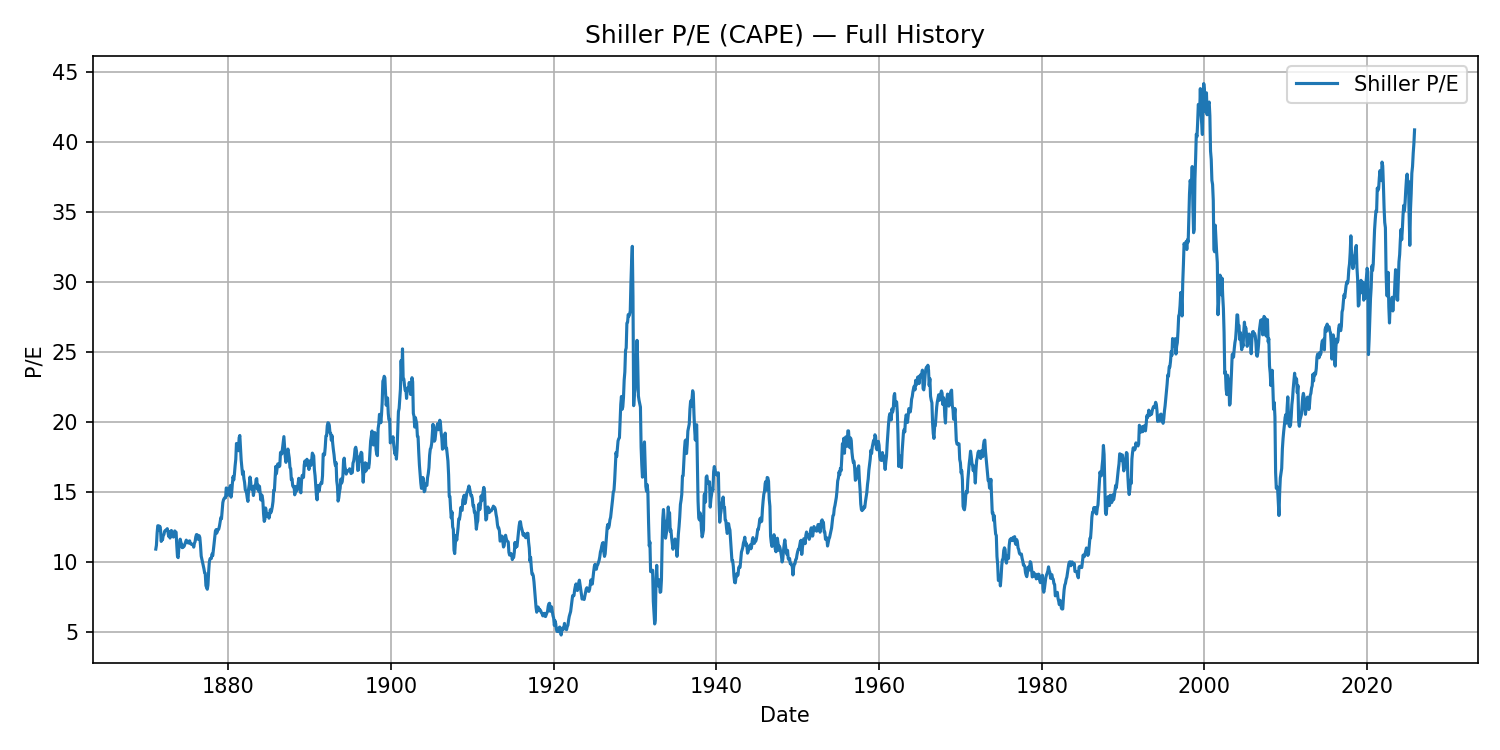
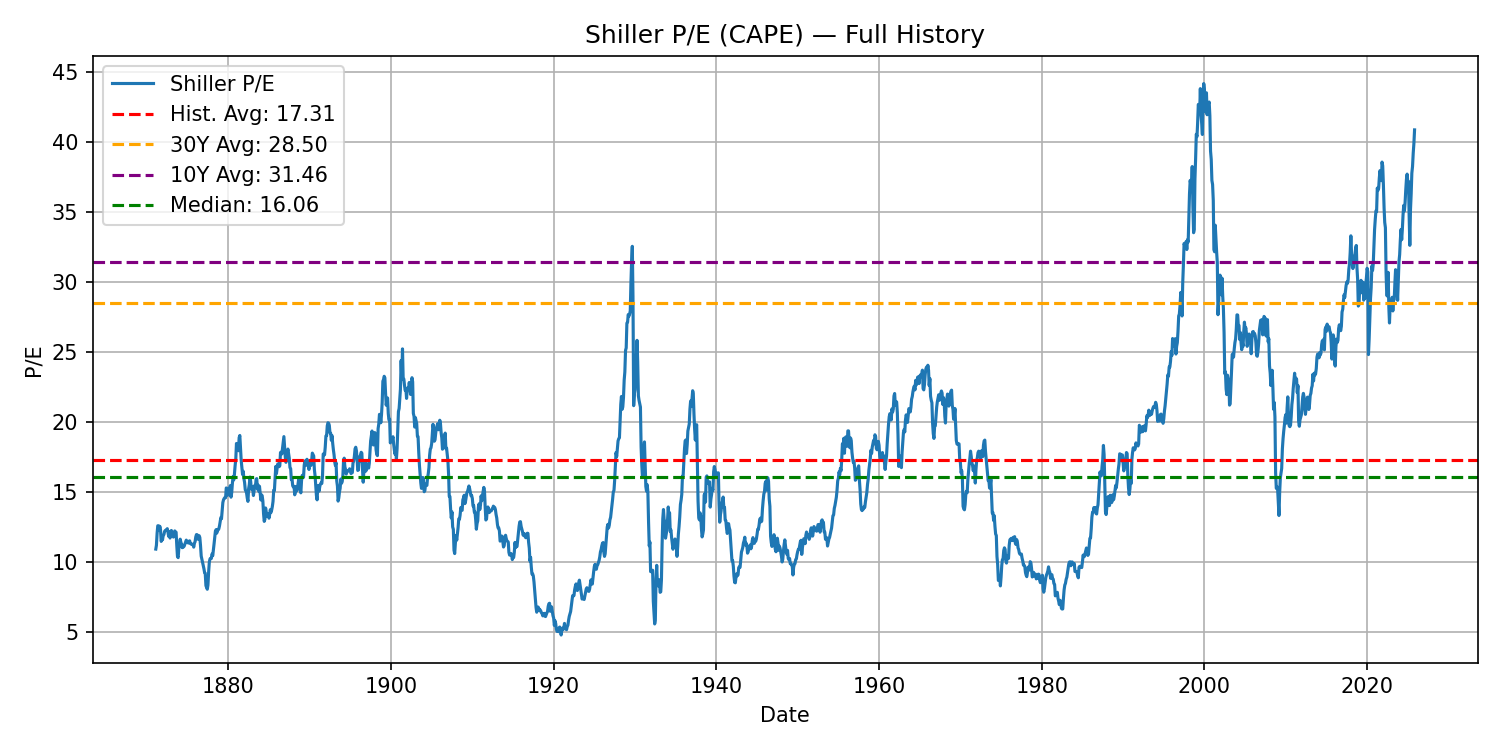
Added charts

diff --git a/scraper.py b/scraper.py
@@ -87,6 +87,12 @@ df = df.sort_values("date", ascending=True)
 plt.figure(figsize=(10, 5))
 plt.plot(df["date"], df["shiller_pe"], label="Shiller P/E")
 
+# Add horizontal lines for our analysis
+plt.axhline(y=average_pe, color='red', linestyle='--', label=f'Hist. Avg: {average_pe:.2f}')
+plt.axhline(y=average_pe_30y, color='orange', linestyle='--', label=f'30Y Avg: {average_pe_30y:.2f}')
+plt.axhline(y=average_pe_10y, color='purple', linestyle='--', label=f'10Y Avg: {average_pe_10y:.2f}')
+plt.axhline(y=median_pe, color='green', linestyle='--', label=f'Median: {median_pe:.2f}')
+
 plt.title("Shiller P/E (CAPE) — Full History")
 plt.xlabel("Date")
 plt.ylabel("P/E")
